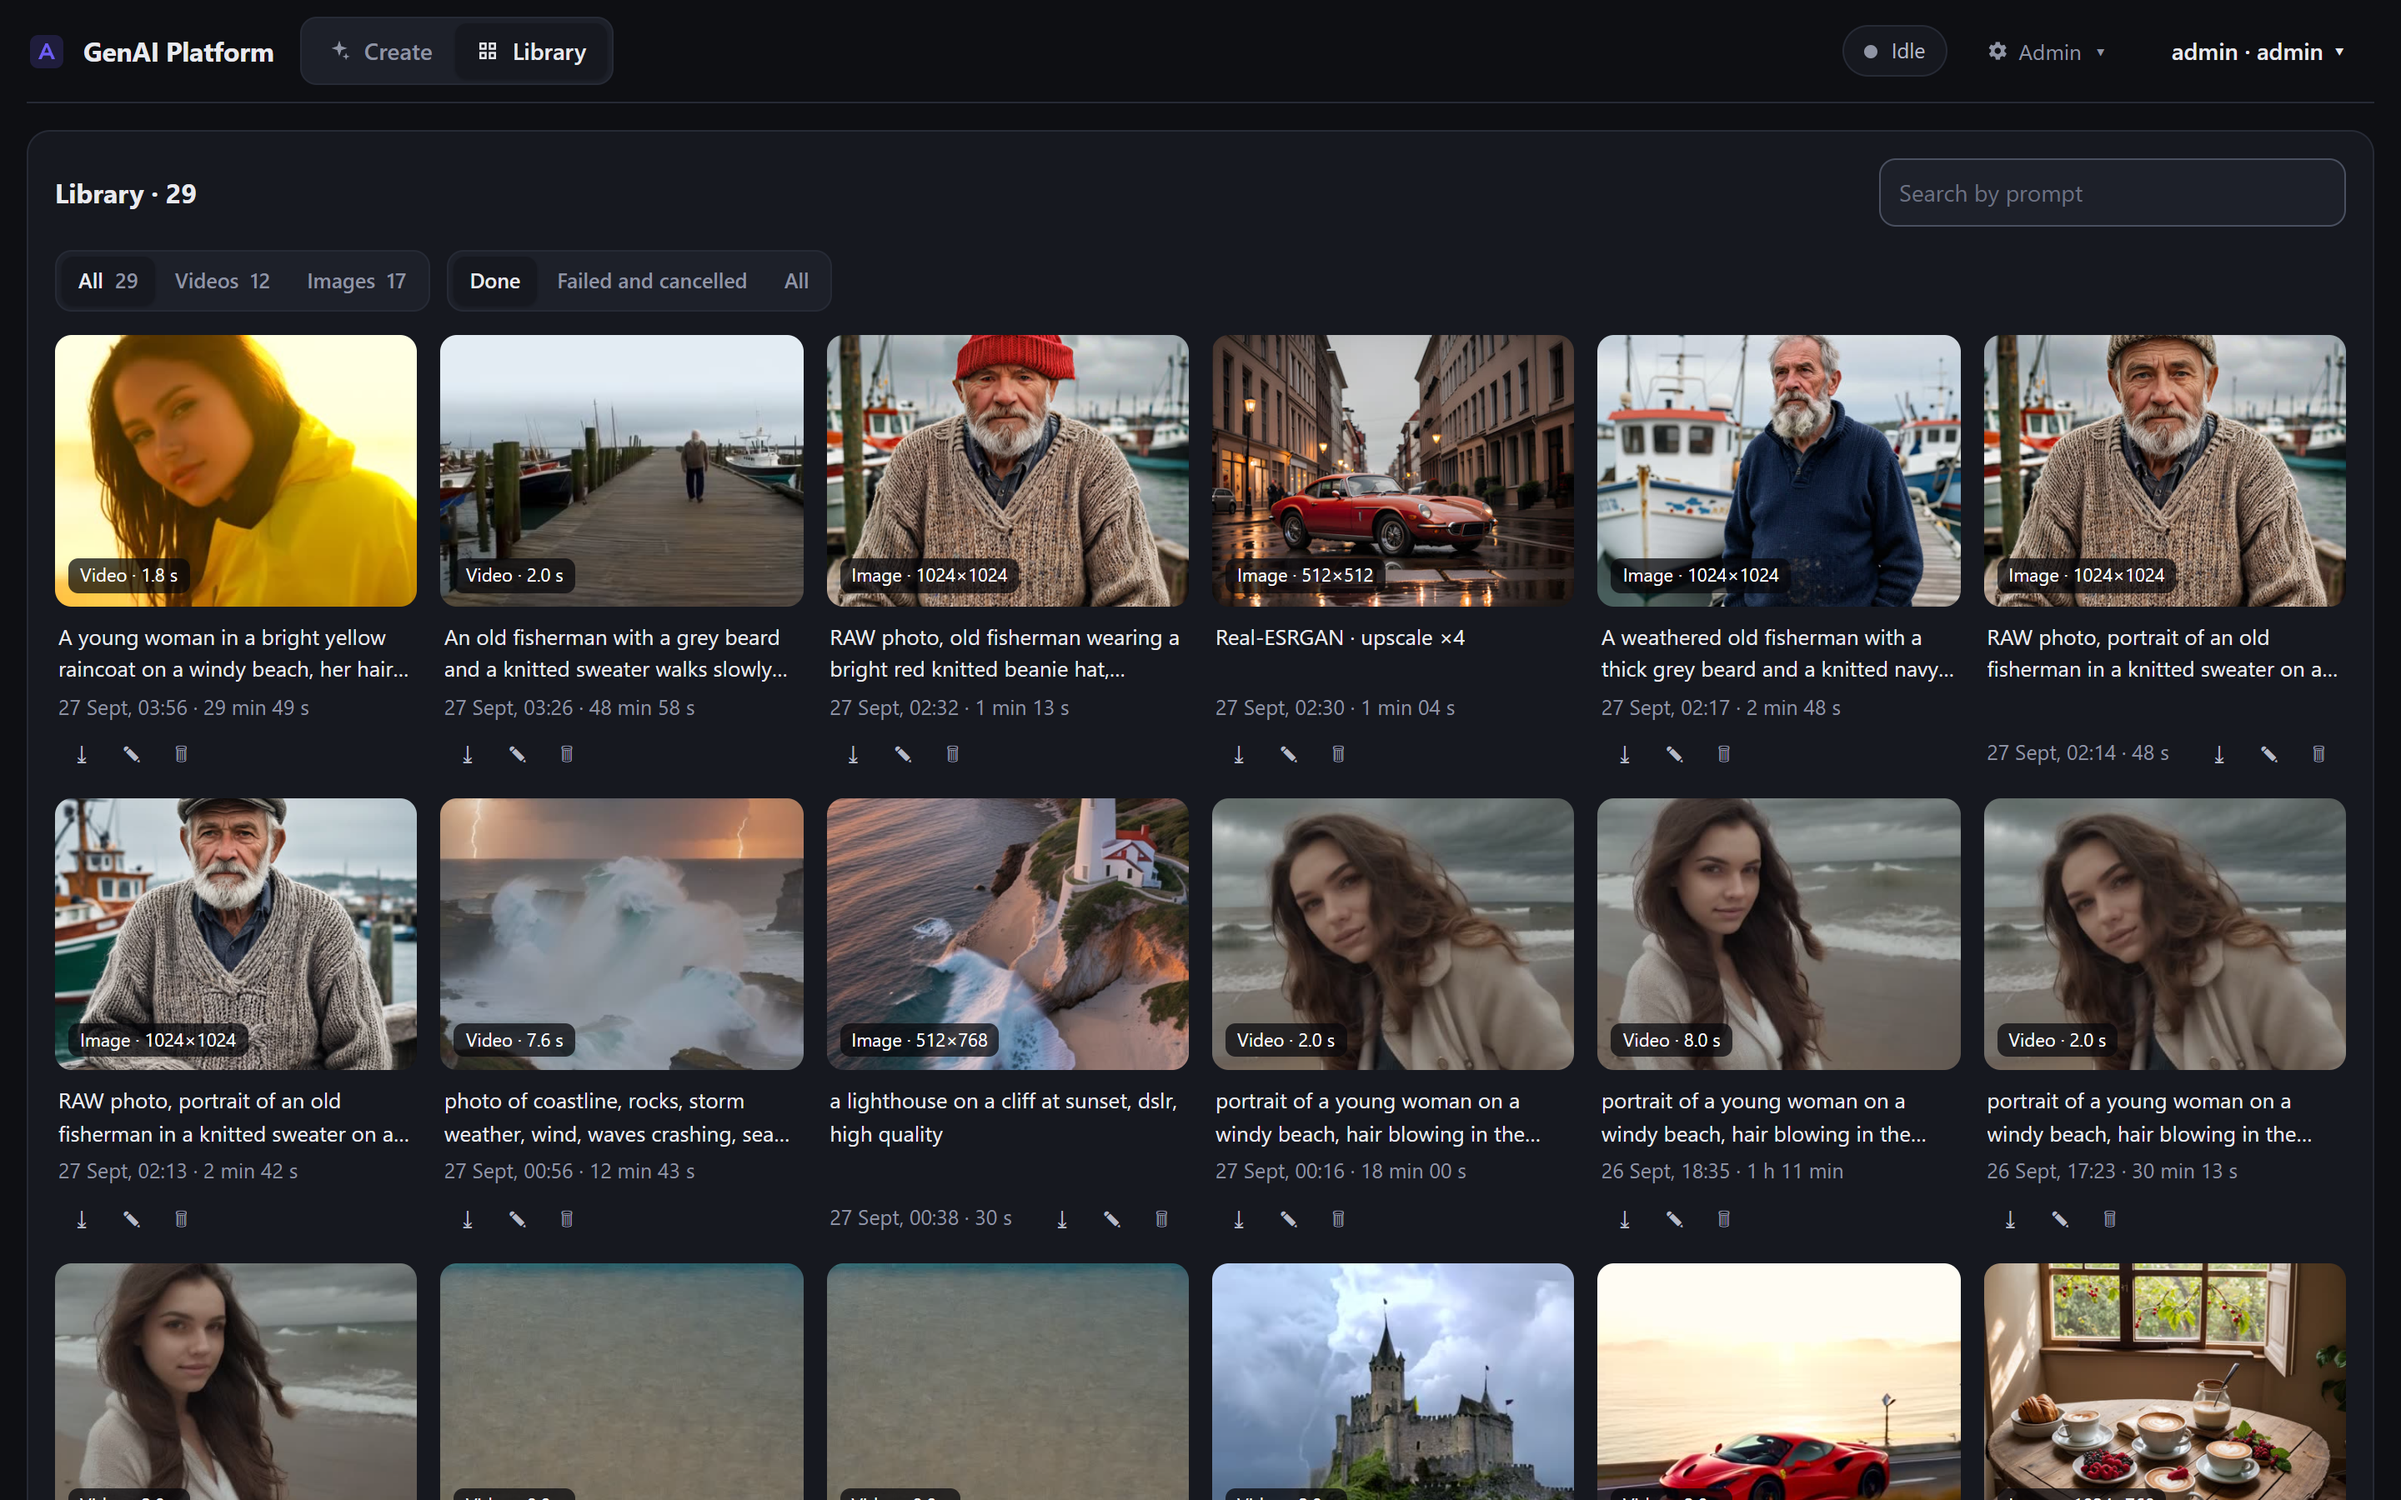
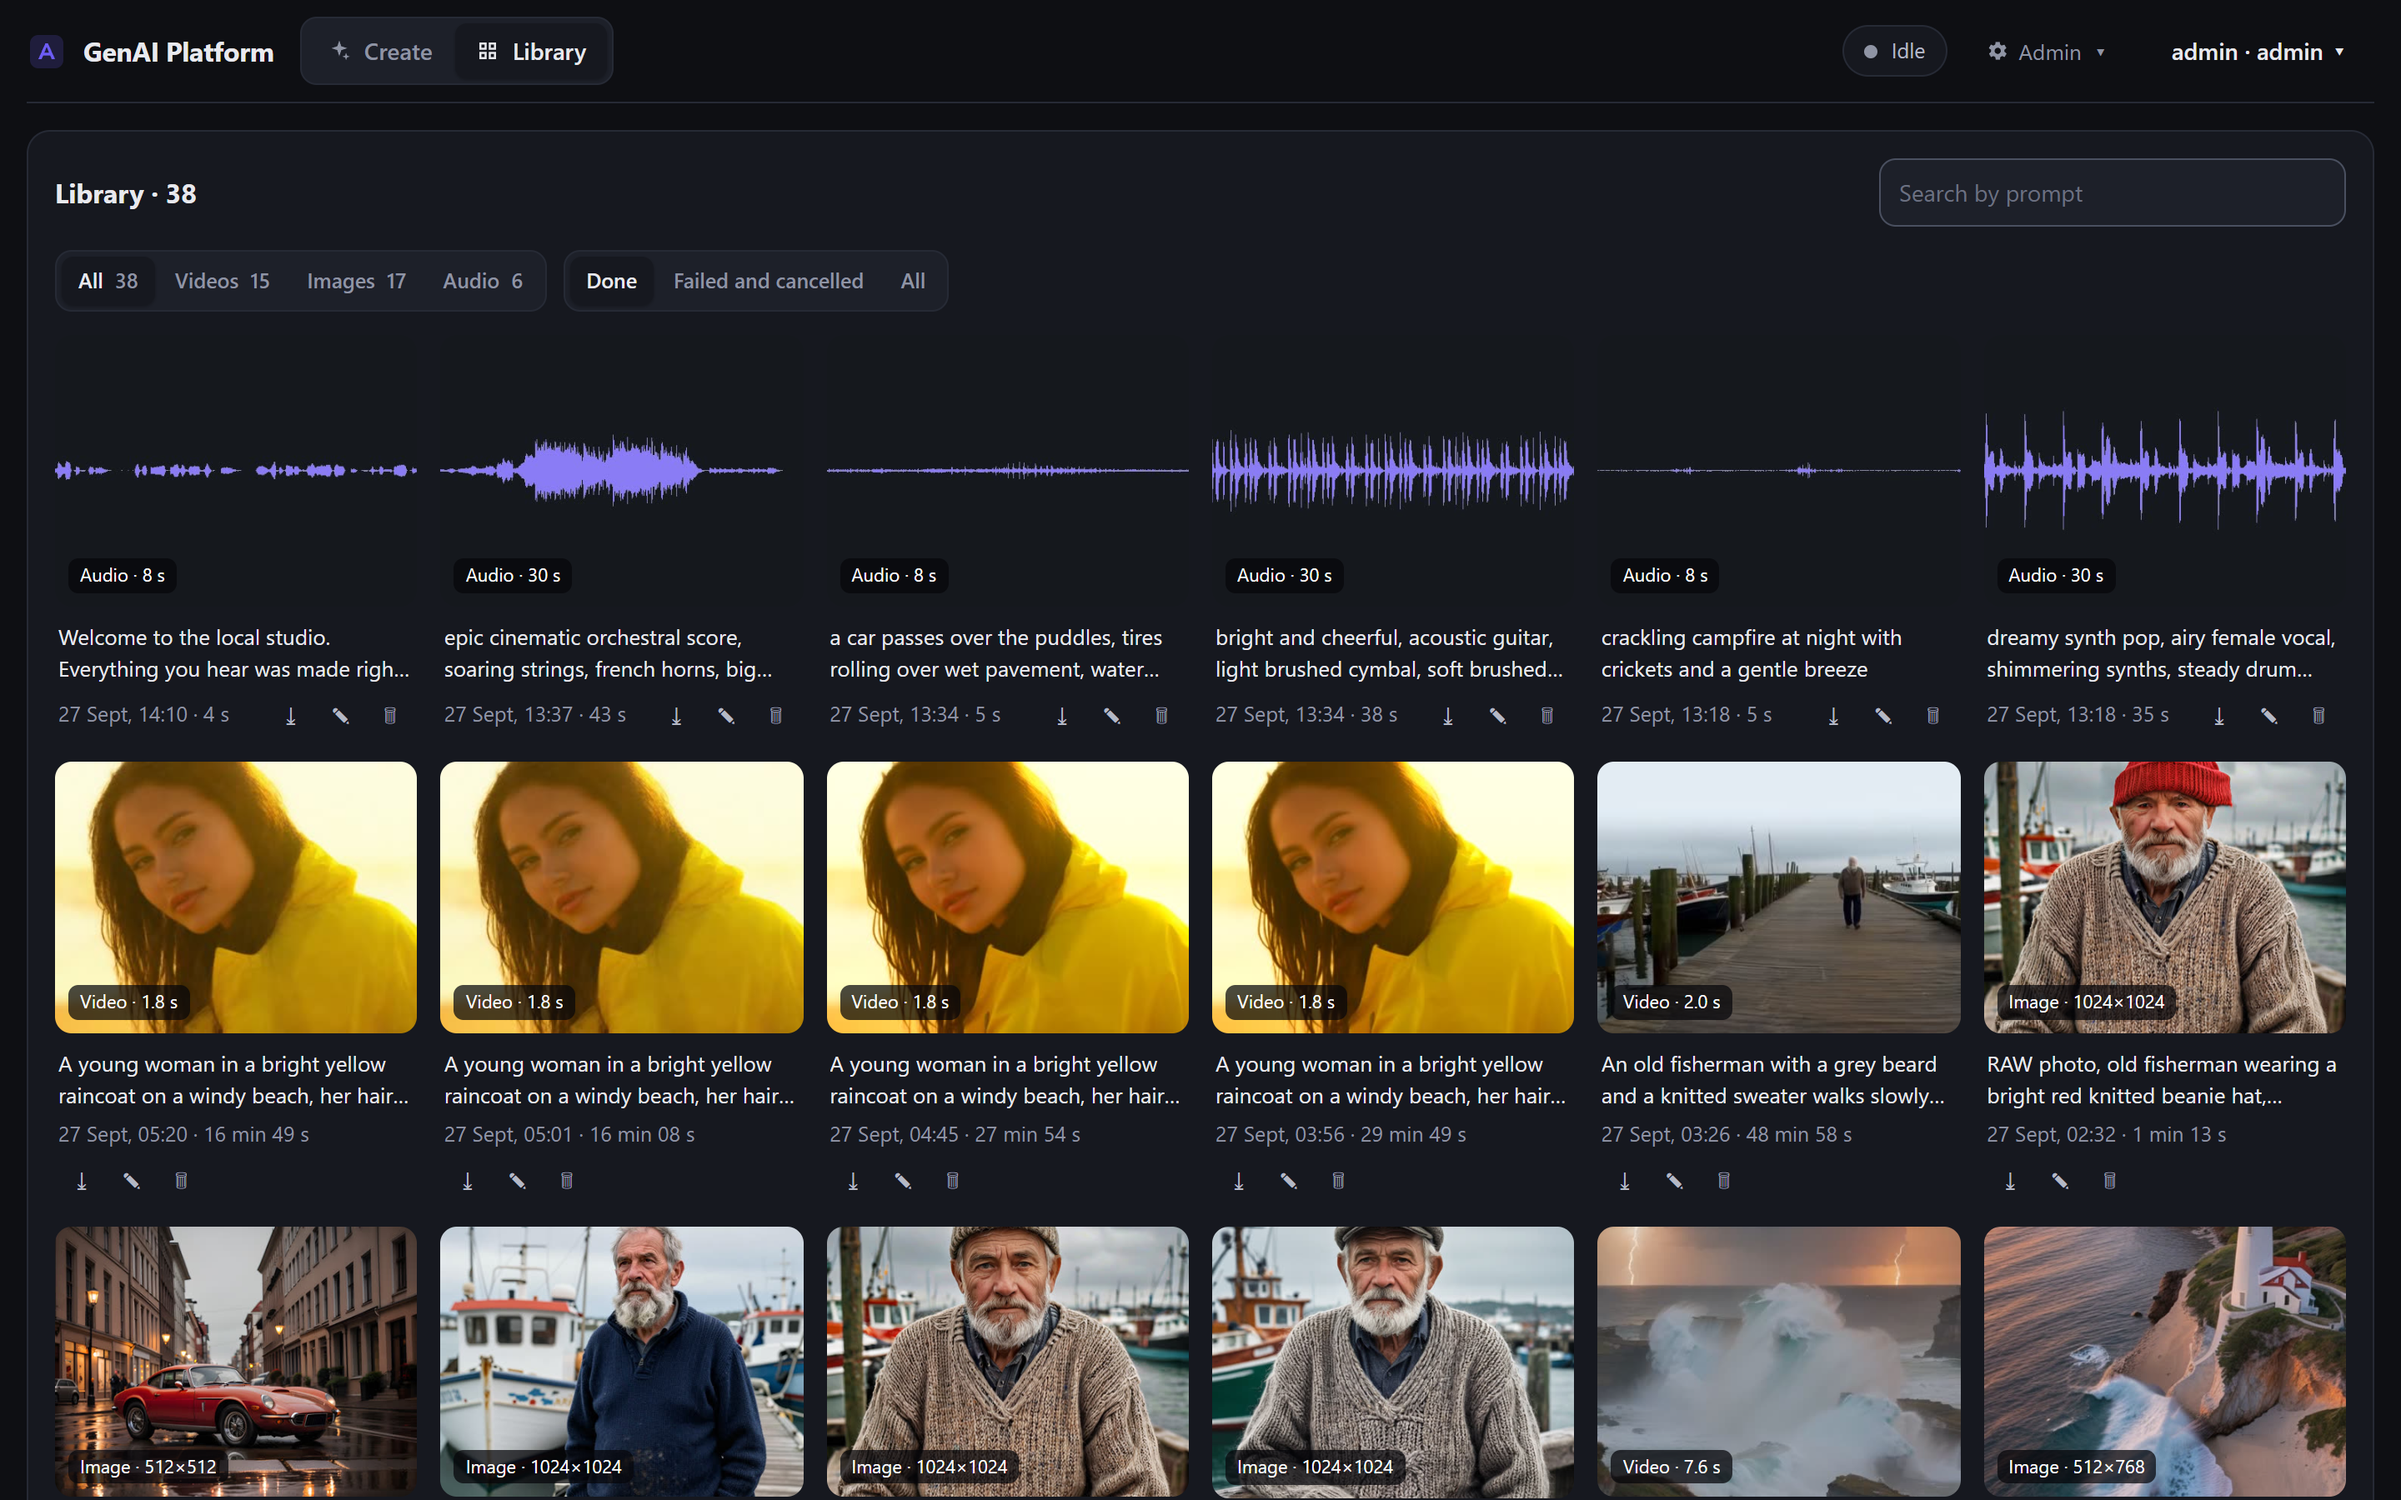
New screenshots: dark theme and English only, with audio
All README screenshots retaken in the dark theme with the English UI and
only English content; the light theme shot gives way to the audio
workspace. The Settings text names the "Improve with AI" button and its
music and sound styles instead of the old "To prompt".

diff --git a/web/src/locales/ru.js b/web/src/locales/ru.js
@@ -331,7 +331,7 @@ export default {
   "{n} CU": "{n} CU",
   "Load": "Загрузка",
   "Used": "Занято",
-  "Adds a \"To prompt\" button to the generation form: a language model on an Ollama server turns a short description in any language into a detailed English prompt written for the selected mode (tags for Stable Diffusion 1.5, sentences with motion and camera for Wan).": "Добавляет в форму генерации кнопку «В промпт»: языковая модель на сервере Ollama превращает короткое описание на любом языке в подробный английский промпт под выбранный режим (теги для Stable Diffusion 1.5, предложения с движением и камерой для Wan).",
+  "Adds an \"Improve with AI\" button to the prompt box: a language model on an Ollama server turns a short description in any language into a detailed English prompt written for the selected mode: tags for Stable Diffusion, sentences with motion and camera for Wan, a style caption for music and a sound description for effects.": "Добавляет в поле промпта кнопку «Улучшить с ИИ»: языковая модель на сервере Ollama превращает короткое описание на любом языке в подробный английский промпт для выбранного режима: теги для Stable Diffusion, предложения с движением и камерой для Wan, описание стиля для музыки и описание звука для эффектов.",
   "An administrator can check it in Settings.": "Администратор может проверить это в настройках.",
   "Check": "Проверить",
   "Connect an Ollama model in Settings to turn a short description into a detailed prompt.": "Подключите модель Ollama в настройках, чтобы превращать короткое описание в подробный промпт.",

diff --git a/web/src/locales/uk.js b/web/src/locales/uk.js
@@ -331,7 +331,7 @@ export default {
   "{n} CU": "{n} CU",
   "Load": "Навантаження",
   "Used": "Зайнято",
-  "Adds a \"To prompt\" button to the generation form: a language model on an Ollama server turns a short description in any language into a detailed English prompt written for the selected mode (tags for Stable Diffusion 1.5, sentences with motion and camera for Wan).": "Додає до форми генерації кнопку «У промпт»: мовна модель на сервері Ollama перетворює короткий опис будь-якою мовою на докладний англійський промпт під обраний режим (теги для Stable Diffusion 1.5, речення з рухом і камерою для Wan).",
+  "Adds an \"Improve with AI\" button to the prompt box: a language model on an Ollama server turns a short description in any language into a detailed English prompt written for the selected mode: tags for Stable Diffusion, sentences with motion and camera for Wan, a style caption for music and a sound description for effects.": "Додає до поля промпту кнопку «Покращити з ШІ»: мовна модель на сервері Ollama перетворює короткий опис будь-якою мовою на докладний англійський промпт для вибраного режиму: теги для Stable Diffusion, речення з рухом і камерою для Wan, опис стилю для музики й опис звуку для ефектів.",
   "An administrator can check it in Settings.": "Адміністратор може перевірити це в налаштуваннях.",
   "Check": "Перевірити",
   "Connect an Ollama model in Settings to turn a short description into a detailed prompt.": "Підключіть модель Ollama в налаштуваннях, щоб перетворювати короткий опис на докладний промпт.",

diff --git a/web/src/Settings.jsx b/web/src/Settings.jsx
@@ -119,7 +119,7 @@ export default function Settings() {
   );
 }
 
-// The "To prompt" assistant: an Ollama server and model that rewrite descriptions into prompts
+// The prompt assistant ("Improve with AI"): an Ollama server and model that rewrite descriptions into prompts
 const RECOMMENDED_MODELS = ['dolphin-llama3', 'huihui_ai/qwen2.5-abliterate:3b'];
 
 function PromptAssistantSettings() {
@@ -171,7 +171,7 @@ function PromptAssistantSettings() {
     <form className="card form" onSubmit={save}>
       <h3>{t('Prompt assistant')}</h3>
       <p className="muted">
-        {t('Adds a "To prompt" button to the generation form: a language model on an Ollama server turns a short description in any language into a detailed English prompt written for the selected mode (tags for Stable Diffusion 1.5, sentences with motion and camera for Wan).')}
+        {t('Adds an "Improve with AI" button to the prompt box: a language model on an Ollama server turns a short description in any language into a detailed English prompt written for the selected mode: tags for Stable Diffusion, sentences with motion and camera for Wan, a style caption for music and a sound description for effects.')}
       </p>
       <p className="muted">
         {t('Recommended: dolphin-llama3 (8B, 4.7 GB, the most accurate, 5–15 s per prompt) or huihui_ai/qwen2.5-abliterate:3b (1.9 GB, fast, 3–7 s, understands other languages, simpler wording). dolphin-phi often loses the meaning of non-English descriptions. Install on the Ollama server with:')}{' '}

diff --git a/README.md b/README.md
@@ -35,13 +35,13 @@ The UI is in English (default), Ukrainian and Russian, in a dark (default) or li
 
 ## Screenshots
 
-Taken on the reference machine (Radeon 890M) at the size of a 13" laptop screen (1440×900, 2× density) and a phone (390×844, 3×). All results were generated by the platform itself (RealVisXL V5, Z-Image Turbo, AnimateLCM, AnimateDiff v3, Wan 2.1 VACE, Real-ESRGAN); see [docs/benchmarks.md](docs/benchmarks.md).
+Taken on the reference machine (Radeon 890M) at the size of a 13" laptop screen (1440×900, 2× density) and a phone (390×844, 3×). All results were generated by the platform itself (RealVisXL V5, Z-Image Turbo, AnimateLCM, AnimateDiff v3, Wan 2.1 VACE, Real-ESRGAN, ACE-Step 1.5, Stable Audio 3 Small, Supertonic 3); see [docs/benchmarks.md](docs/benchmarks.md).
 
 > **Note:** the screenshots show the interface at the time of writing (September 2026). The platform is in active development, so the current UI may differ considerably: layout, sections, controls and texts change between versions.
 
 | | |
 |---|---|
-| [![Create an image](docs/screenshots/create-image.png)](docs/screenshots/create-image.png) **Create:** task, prompt with the AI assistant, models with the time per result; the latest result with what to do next | [![Light theme](docs/screenshots/create-image-light.png)](docs/screenshots/create-image-light.png) **Light theme** |
+| [![Create an image](docs/screenshots/create-image.png)](docs/screenshots/create-image.png) **Create:** task, prompt with the AI assistant, models with the time per result; the latest result with what to do next | [![Audio](docs/screenshots/create-audio.png)](docs/screenshots/create-audio.png) **Audio:** music, sound effects and speech; any result can become the sound of a video |
 | [![Change a part](docs/screenshots/change-part.png)](docs/screenshots/change-part.png) **Change a part:** paint over the hat, describe what goes there | [![Video](docs/screenshots/create-video.png)](docs/screenshots/create-video.png) **Video:** a clip changed with Wan 2.1 VACE (the motion of an uploaded video, a new look) |
 | [![Library](docs/screenshots/library.png)](docs/screenshots/library.png) **Library:** everything generated, filters, search | [![Viewer](docs/screenshots/viewer.png)](docs/screenshots/viewer.png) **Viewer:** the result and its follow-up actions |
 | [![System](docs/screenshots/system.png)](docs/screenshots/system.png) **System:** hardware at a glance and the self-check | [![Models](docs/screenshots/models.png)](docs/screenshots/models.png) **Models:** catalog, sizes, licenses, what uses what |
